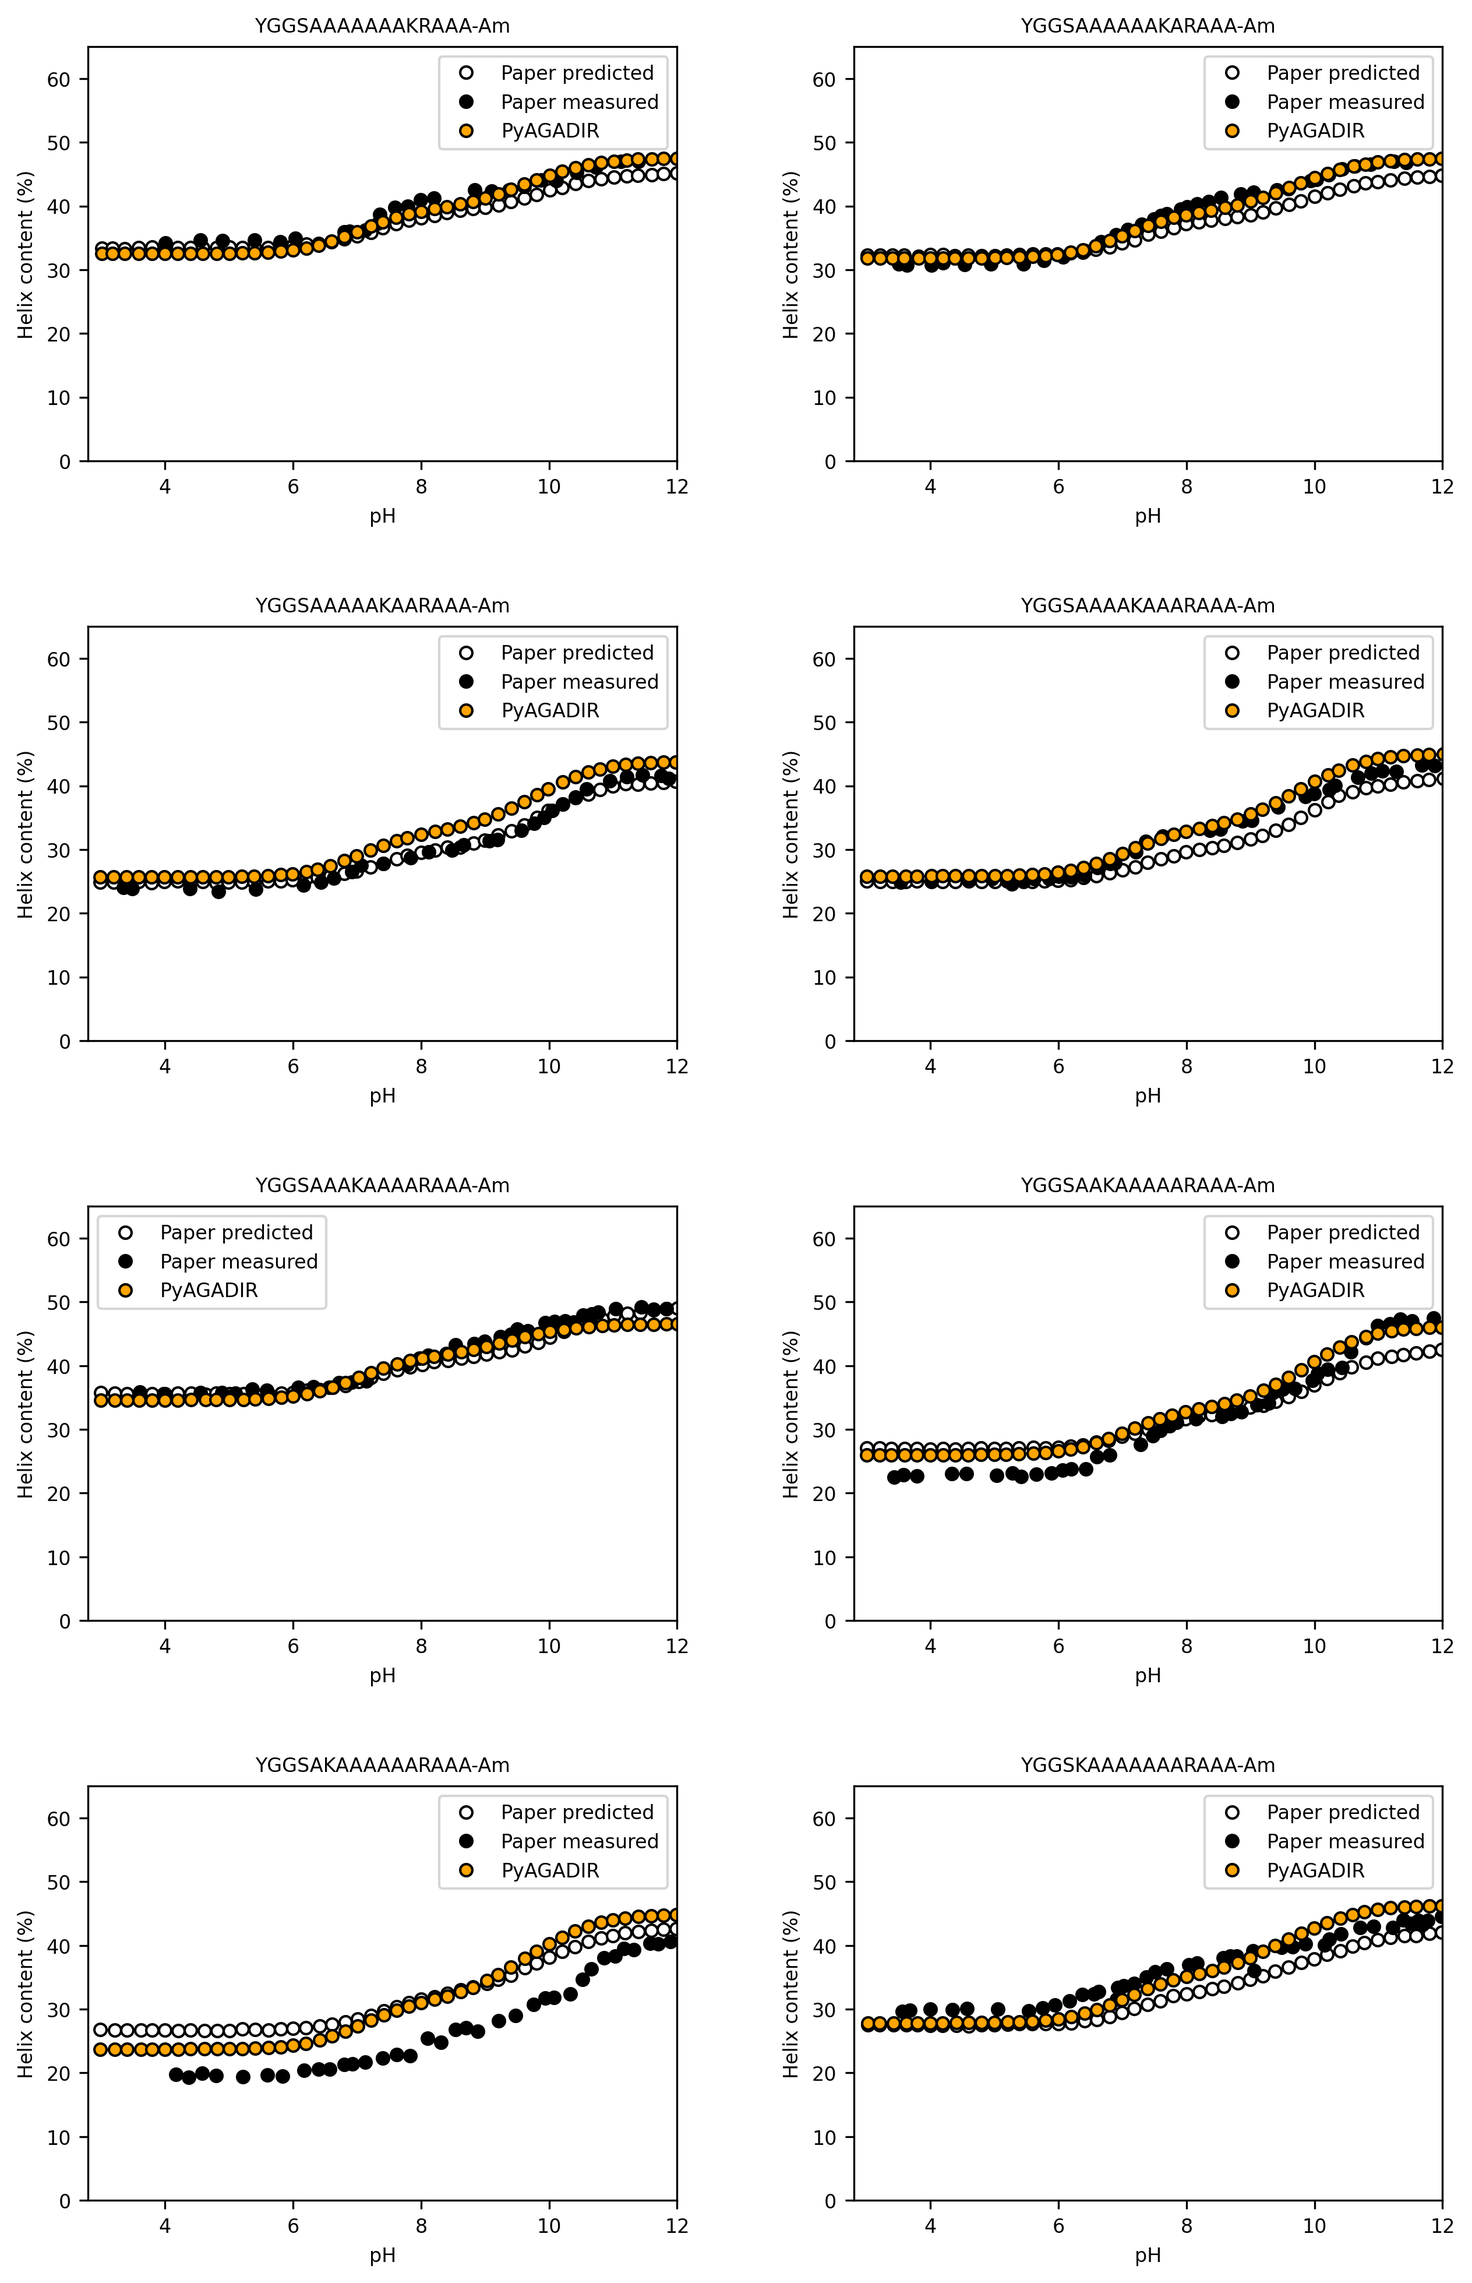
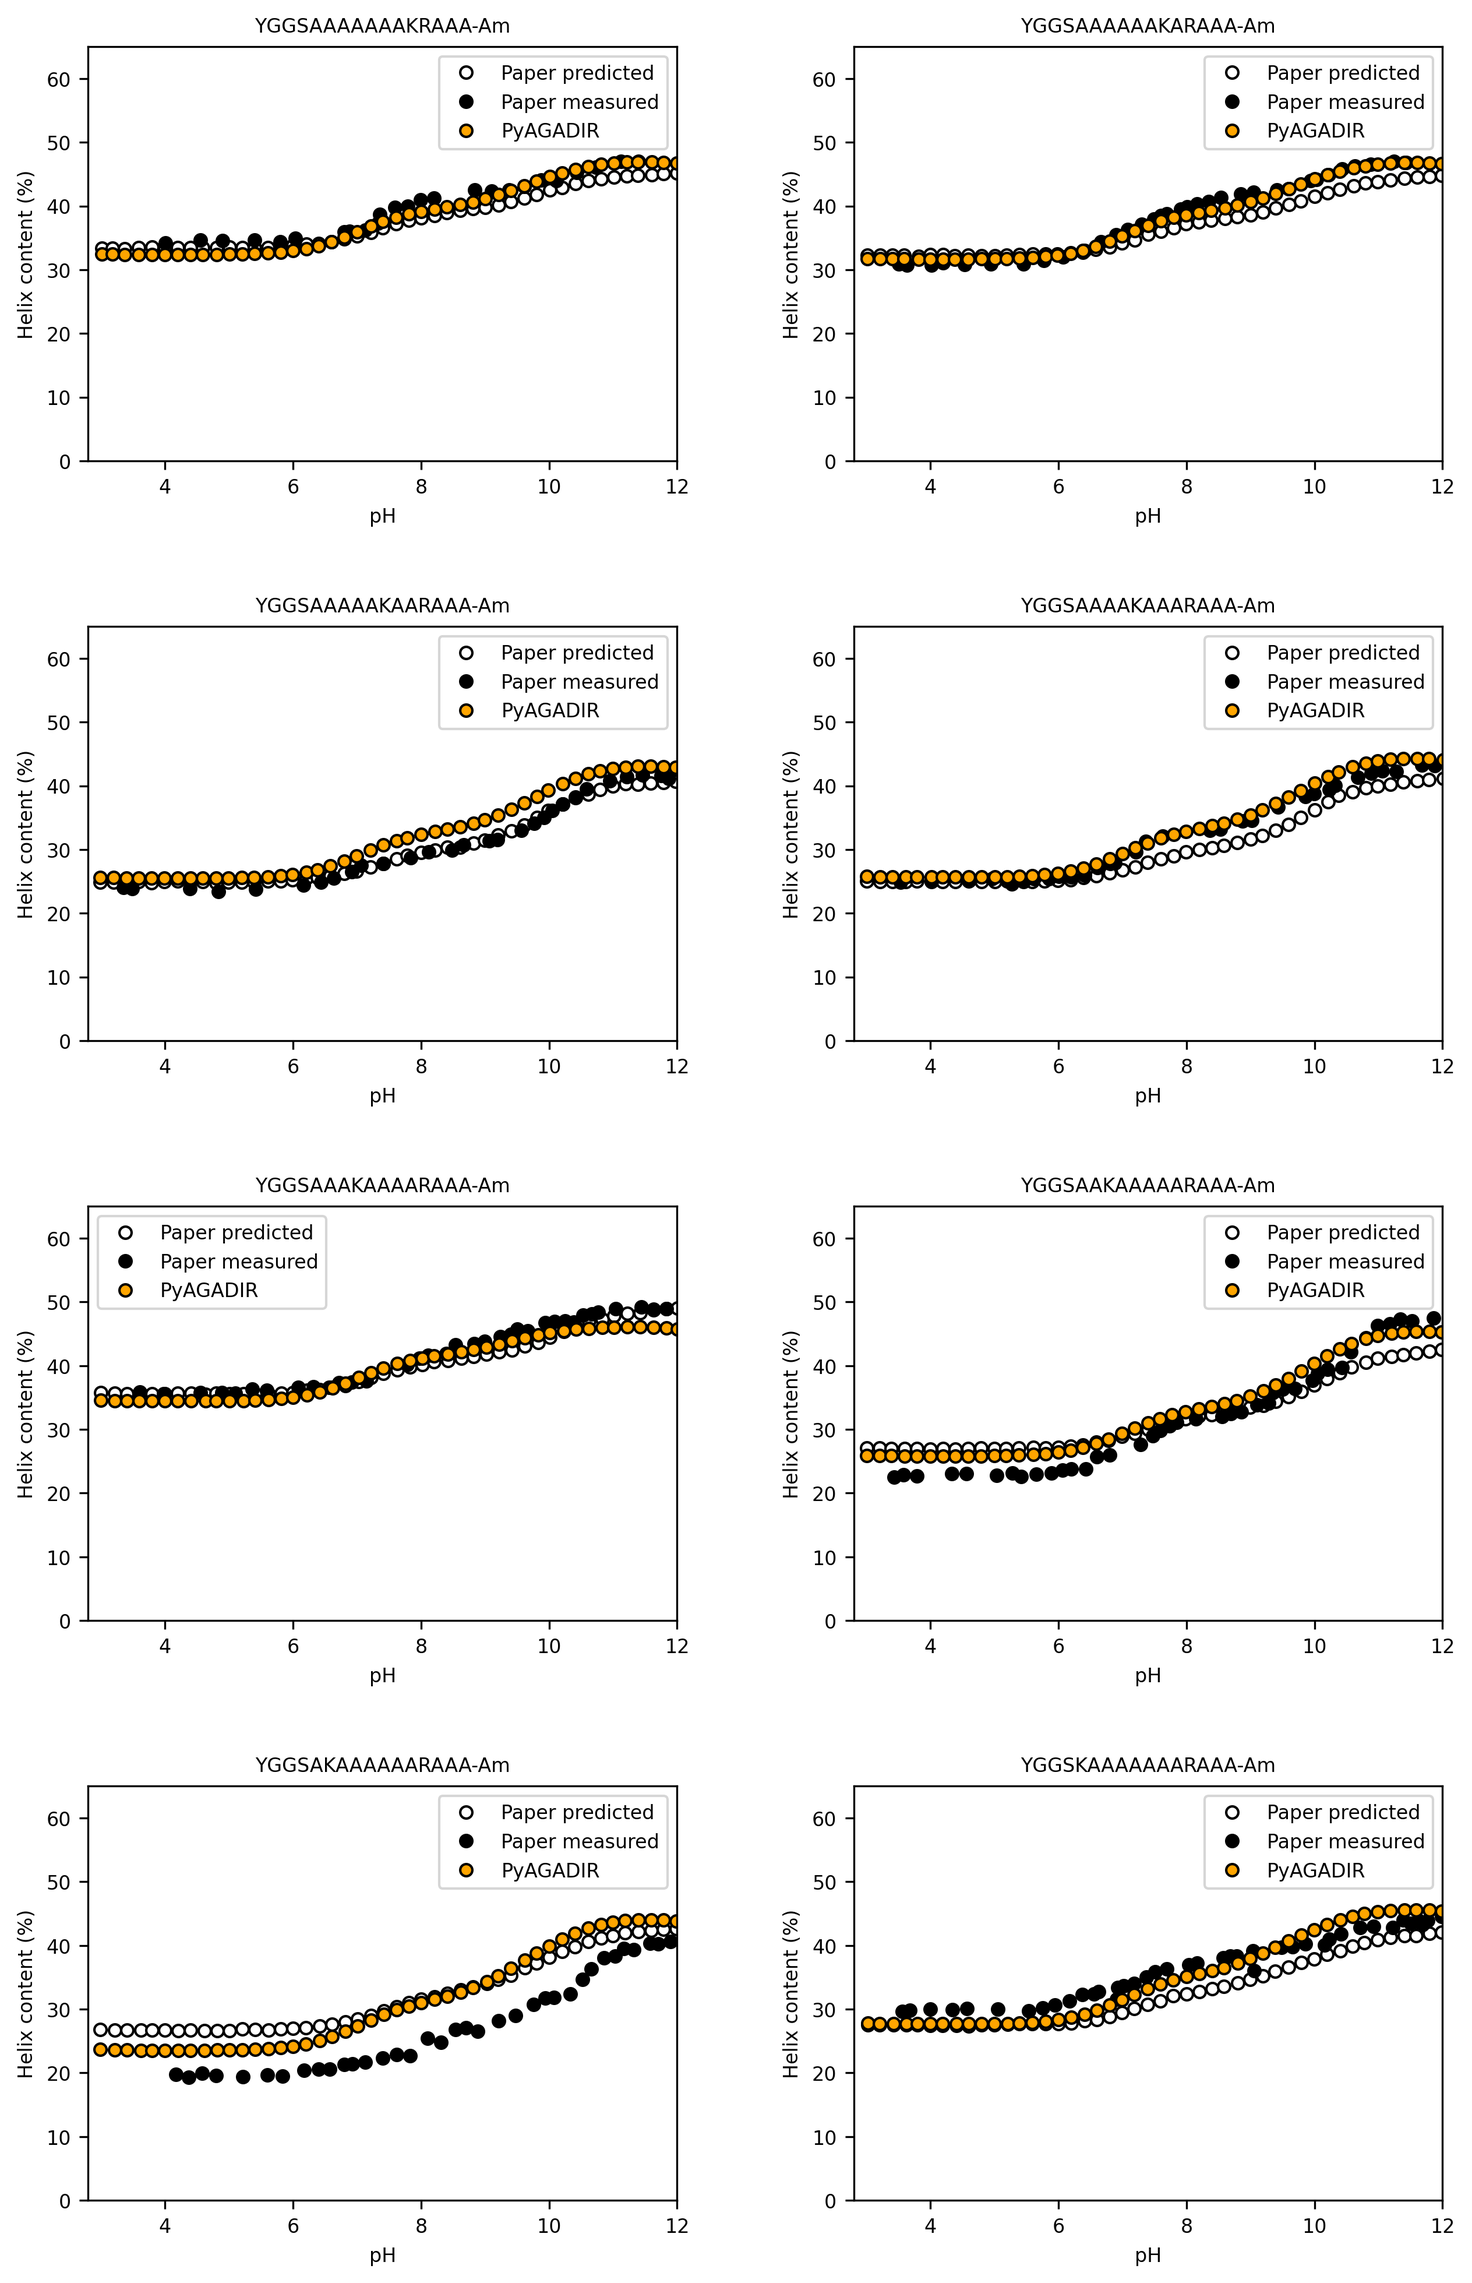
Ionic strength includes the HCl or NaOH that set the pH
Sources state their salt and buffer, rarely the strong acid or base used to
bring each sample to its pH, which raises the ionic strength (and shortens
the Debye length) at the pH extremes. New
validation.titrated_ionic_strength(ionic_M, pH, buffer=None):
- with a recorded buffer, the ionic strength is computed from its
  speciation at the target pH plus the HCl or NaOH the charge balance
  needs (Lacroix 1998: 2.5 mM sodium phosphate made up at pH 7.0, now
  3.5 mM at pH 5 to 19.8 mM at pH 12, where 5 mM was used at every pH);
- otherwise the free acid or base and its counter-ion are added,
  10^-pH + 10^(pH-14) M.
Scoring and the validation figures use it at every point; the Lacroix
data files record their buffer. The peptide corpus keeps the stated salt
and buffer; its README documents the rule, and the manifest flags the
three datasets whose coded value already includes the HCl (Viguera 1995,
Richardson 1999 and 2004).

Mean panel RMSE 2.969 -> 2.951 (Lacroix 2.509 -> 2.460,
Huyghues-Despointes 2.657 -> 2.644); residual structure 2.440 -> 2.396.
Literature corpus: every set within 0.08 RMSE (Cochran 2001 N1
titrations -0.08). Validation figures regenerated.

diff --git a/pyagadir/validation.py b/pyagadir/validation.py
@@ -85,6 +85,46 @@ def load_panel_conditions(filename):
     return {k: {**base, **v} for k, v in per_panel.items()}
 
 
+PHOSPHATE_PKA = (2.15, 7.20, 12.35)
+
+
+def titrated_ionic_strength(ionic_M, pH, buffer=None):
+    """Ionic strength (M) of a sample whose pH was set with HCl or NaOH.
+
+    Sources state their buffer and salt but rarely the strong acid or base that brought the sample
+    to its measured pH, and that titrant raises the ionic strength at the pH extremes (shortening
+    the Debye length there). Without a buffer composition, the free acid or base and its
+    counter-ion are added to the recorded value, ionic_M + 10^-pH + 10^(pH - 14), a lower bound on
+    the titrant. With one, ``{"sodium_phosphate_M": c, "prepared_pH": p}``, the ionic strength is
+    computed from the phosphate's speciation at the target pH (pKa 2.15 / 7.20 / 12.35) plus the
+    HCl or NaOH that the charge balance needs to move it from its prepared pH, and ionic_M is not
+    used. The pH is taken as set at room temperature (pKw 14.0).
+    """
+    h, oh = 10.0 ** -pH, 10.0 ** (pH - 14.0)
+    if not buffer:
+        return ionic_M + h + oh
+    c = float(buffer["sodium_phosphate_M"])
+
+    def fractions(x):
+        terms = [1.0]
+        for pka in PHOSPHATE_PKA:
+            terms.append(terms[-1] * 10.0 ** (x - pka))
+        total = sum(terms)
+        return [t / total for t in terms]
+
+    f_prep, f = fractions(float(buffer["prepared_pH"])), fractions(pH)
+    na_buffer = c * sum(i * x for i, x in enumerate(f_prep))
+    base = c * sum(i * x for i, x in enumerate(f)) + oh - h - na_buffer  # > 0: NaOH added; < 0: HCl added
+    na, cl = na_buffer + max(base, 0.0), max(-base, 0.0)
+    return 0.5 * (na + cl + h + oh + c * sum(i * i * x for i, x in enumerate(f)))
+
+
+def load_buffer(filename):
+    """The buffer composition recorded in a dataset's ``_provenance`` block (key ``buffer``), or None."""
+    with open(get_package_data_dir() / "validation" / filename) as fh:
+        return json.load(fh).get("_provenance", {}).get("buffer")
+
+
 def point_conditions(panel_cond, peptide, T, M, pH):
     """Return ``(T, M, pH)`` for one point of a panel.
 
@@ -241,6 +281,7 @@ def reproduce_lacroix_figure_3b(method="1s"):
 
     # Load validation data together with its recorded conditions
     data, temp_C, ionic_M = load_validation('lacroix_figure_3_data.json')
+    buffer = load_buffer('lacroix_figure_3_data.json')
 
     peptide = data["figure3b"]["peptide"]
     ncap = data["figure3b"]["ncap"]
@@ -254,7 +295,7 @@ def reproduce_lacroix_figure_3b(method="1s"):
     # AGADIR results
     pyagadir_predicted_data_helix = []
     for ph in paper_predicted_data_ph:
-        model = AGADIR(method=method, T=temp_C, M=ionic_M, pH=ph)
+        model = AGADIR(method=method, T=temp_C, M=titrated_ionic_strength(ionic_M, ph, buffer), pH=ph)
         result = model.predict(peptide, ncap=ncap, ccap=ccap)
         pyagadir_predicted_data_helix.append(result.get_percent_helix())
         
@@ -275,6 +316,7 @@ def reproduce_lacroix_figure_4(method="1s"):
     # Get paths
     figures_dir = ensure_figures_dir()
     data, temp_C, ionic_M = load_validation('lacroix_figure_4_data.json')
+    buffer = load_buffer('lacroix_figure_4_data.json')
 
     # Create figure
     fig, axs = plt.subplots(4, 2, figsize=(10, 16))
@@ -296,7 +338,7 @@ def reproduce_lacroix_figure_4(method="1s"):
 
         pyagadir_predicted_data_helix = []
         for ph in paper_predicted_data_ph:
-            model = AGADIR(method=method, T=temp_C, M=ionic_M, pH=ph)
+            model = AGADIR(method=method, T=temp_C, M=titrated_ionic_strength(ionic_M, ph, buffer), pH=ph)
             result = model.predict(peptide, ncap=ncap, ccap=ccap)
             pyagadir_predicted_data_helix.append(result.get_percent_helix())
             
@@ -339,7 +381,7 @@ def reproduce_huygues_despointes_figure_1(method="1s"):
 
         pyagadir_predicted_data_helix = []
         for pept in peptides:
-            model = AGADIR(method=method, T=temp_C, M=ionic_M, pH=ph)
+            model = AGADIR(method=method, T=temp_C, M=titrated_ionic_strength(ionic_M, ph), pH=ph)
             result = model.predict(pept, ncap=ncap, ccap=ccap)
             pyagadir_predicted_data_helix.append(result.get_percent_helix())
             
@@ -396,7 +438,7 @@ def reproduce_munoz_1997_figure_4(method="1s"):
         for pept, x, y in zip(peptides, xvals, paper_measured_data):
             T_pt, M_pt, pH_pt = point_conditions(cond, pept, T, M, pH)
             try:
-                model = AGADIR(method=method, T=T_pt, M=M_pt, pH=pH_pt)
+                model = AGADIR(method=method, T=T_pt, M=titrated_ionic_strength(M_pt, pH_pt), pH=pH_pt)
                 result = model.predict(pept, ncap=ncap, ccap=ccap)
             except ValueError:
                 # Shorter than the model's six-residue minimum.  Figure 4A's shortest
@@ -459,7 +501,7 @@ def reproduce_munoz_1995_figure_3(method="1s"):
         pH = cond.get("pH", fig_data.get("pH", 7.0))
         pyagadir_predicted_data_helix = []
         for temp in xvals:
-            model = AGADIR(method=method, T=temp, M=M, pH=pH)
+            model = AGADIR(method=method, T=temp, M=titrated_ionic_strength(M, pH), pH=pH)
             result = model.predict(peptide, ncap=ncap, ccap=ccap)
             pyagadir_predicted_data_helix.append(result.get_percent_helix())
             

diff --git a/pyagadir/scoring.py b/pyagadir/scoring.py
@@ -1,6 +1,7 @@
 import numpy as np
 from pyagadir.models import AGADIR
-from pyagadir.validation import load_panel_conditions, load_validation, point_conditions
+from pyagadir.validation import (load_buffer, load_panel_conditions, load_validation, point_conditions,
+                                 titrated_ionic_strength)
 
 METRICS = ("mse", "rmse", "mae", "pearsonr")
 
@@ -29,8 +30,9 @@ def _panel_conditions(filename, panel, temp_C, ionic_M, pH=7.0):
             cond.get("pH", pH))
 
 
-def _predict(peptide, ncap, ccap, method, T, M, pH):
-    model = AGADIR(method=method, T=T, M=M, pH=pH)
+def _predict(peptide, ncap, ccap, method, T, M, pH, buffer=None):
+    """Predict at the sample's ionic strength, including the HCl or NaOH that set its pH."""
+    model = AGADIR(method=method, T=T, M=titrated_ionic_strength(M, pH, buffer), pH=pH)
     return model.predict(peptide, ncap=ncap, ccap=ccap).get_percent_helix()
 
 
@@ -43,7 +45,8 @@ def score_lacroix_figure_3b(method="1s", metric="mse"):
     data, temp_C, ionic_M = load_validation(filename)
     fig_data = data["figure3b"]
     T, M, _ = _panel_conditions(filename, "figure3b", temp_C, ionic_M)
-    predicted = [_predict(fig_data["peptide"], fig_data["ncap"], fig_data["ccap"], method, T, M, ph)
+    buffer = load_buffer(filename)
+    predicted = [_predict(fig_data["peptide"], fig_data["ncap"], fig_data["ccap"], method, T, M, ph, buffer)
                  for ph in fig_data["measured_data_ph"]]
     return {"lacroix_figure_3b": _score(fig_data["measured_data_helix"], predicted, metric)}
 
@@ -52,10 +55,11 @@ def score_lacroix_figure_4(method="1s", metric="mse"):
     """Score per subplot vs measured helix content vs pH (Lacroix 1998, Fig 4)."""
     filename = 'lacroix_figure_4_data.json'
     data, temp_C, ionic_M = load_validation(filename)
+    buffer = load_buffer(filename)
     scores = {}
     for figname, fig_data in data.items():
         T, M, _ = _panel_conditions(filename, figname, temp_C, ionic_M)
-        predicted = [_predict(fig_data["peptide"], fig_data["ncap"], fig_data["ccap"], method, T, M, ph)
+        predicted = [_predict(fig_data["peptide"], fig_data["ncap"], fig_data["ccap"], method, T, M, ph, buffer)
                      for ph in fig_data["measured_data_ph"]]
         scores[f"lacroix_figure_4_{figname}"] = _score(fig_data["measured_data_helix"], predicted, metric)
     return scores

diff --git a/tests/test_scoring.py b/tests/test_scoring.py
@@ -6,6 +6,7 @@ tests check the bookkeeping (which conditions reach the model) and not helicity 
 import pytest
 
 import pyagadir.scoring as scoring
+from pyagadir.validation import titrated_ionic_strength
 
 
 class _RecordingModel:
@@ -36,14 +37,18 @@ def test_score_all_runs_and_returns_every_panel(calls):
 
 
 def test_lacroix_uses_recorded_conditions(calls):
-    # Lacroix et al. 1998: 278 K, 2.5 mM sodium phosphate (I ~ 5 mM), not 0 C / 0.1 M
+    # Lacroix et al. 1998: 278 K, 2.5 mM sodium phosphate made up at pH 7.0 and titrated with HCl/NaOH, not 0 C / 0.1 M
     scoring.score_lacroix_figure_4(metric="rmse")
-    assert {(T, M) for _, (T, M, _) in calls} == {(5.0, 0.005)}
+    buffer = {"sodium_phosphate_M": 0.0025, "prepared_pH": 7.0}
+    assert {T for _, (T, _, _) in calls} == {5.0}
+    assert all(M == pytest.approx(titrated_ionic_strength(0.005, pH, buffer), rel=1e-12) for _, (_, M, pH) in calls)
+    assert max(M for _, (_, M, _) in calls) > 0.015  # pH 12: the NaOH roughly quadruples the buffer's 4.4 mM
 
 
 def test_munoz_1997_panels_and_mixed_point_use_their_own_conditions(calls):
     scoring.score_munoz_1997_figure_4(metric="rmse")
     cond = {seq: c for seq, c in calls}
-    assert cond["AAKAAAAKAAAAKAAY"] == (5.0, 1.0, 2.5)          # 4B, Rohl et al. 1992
-    assert cond["AAQAAAAQAA"] == (5.0, 0.0044, 7.0)              # 4A, Munoz & Serrano 1995-II
-    assert cond["AAQAAAAQAAAAQAAY"] == (0.0, 0.102, 7.0)         # 4A's point from Scholtz 1991
+    # recorded salt and buffer + the HCl/NaOH that set the pH (validation.titrated_ionic_strength)
+    assert cond["AAKAAAAKAAAAKAAY"] == (5.0, titrated_ionic_strength(1.0, 2.5), 2.5)      # 4B, Rohl et al. 1992
+    assert cond["AAQAAAAQAA"] == (5.0, titrated_ionic_strength(0.0044, 7.0), 7.0)        # 4A, Munoz & Serrano 1995-II
+    assert cond["AAQAAAAQAAAAQAAY"] == (0.0, titrated_ionic_strength(0.102, 7.0), 7.0)   # 4A's point from Scholtz 1991

diff --git a/tests/test_titrated_ionic_strength.py b/tests/test_titrated_ionic_strength.py
@@ -1,0 +1,25 @@
+"""validation.titrated_ionic_strength: the ionic strength of a sample whose pH was set with HCl or NaOH."""
+import pytest
+
+from pyagadir.validation import load_buffer, titrated_ionic_strength
+
+LACROIX = {"sodium_phosphate_M": 0.0025, "prepared_pH": 7.0}
+
+
+def test_no_buffer_adds_the_free_acid_or_base():
+    assert titrated_ionic_strength(0.01, 2.0) == pytest.approx(0.01 + 0.01, rel=1e-6)
+    assert titrated_ionic_strength(0.01, 12.0) == pytest.approx(0.01 + 0.01, rel=1e-6)
+    assert titrated_ionic_strength(0.01, 7.0) == pytest.approx(0.01, abs=1e-6)
+
+
+@pytest.mark.parametrize("pH,expected", [(3.0, 0.00447), (5.0, 0.00349), (7.0, 0.00443), (9.0, 0.00744),
+                                         (11.0, 0.00882), (12.0, 0.01982)])
+def test_lacroix_phosphate_buffer(pH, expected):
+    """2.5 mM sodium phosphate made up at pH 7.0, then titrated with HCl or NaOH (Lacroix et al. 1998)."""
+    assert titrated_ionic_strength(0.005, pH, LACROIX) == pytest.approx(expected, abs=2e-5)
+
+
+def test_lacroix_files_record_their_buffer():
+    for f in ("lacroix_figure_3_data.json", "lacroix_figure_4_data.json"):
+        b = load_buffer(f)
+        assert b["sodium_phosphate_M"] == 0.0025 and b["prepared_pH"] == 7.0

diff --git a/data/peptides/README.md b/data/peptides/README.md
@@ -23,7 +23,7 @@ One tidy row per (peptide, quantity). Columns:
 | `sequence` | bare sequence, caps stripped into their own columns |
 | `ncap` / `ccap` | `Ac`, `Sc`, `Am`, or empty for free — **read from the paper's notation, never inferred** |
 | `n_res` | length of `sequence` |
-| `pH`, `T_C`, `ionic_strength_M` | per row, so each row stands alone |
+| `pH`, `T_C`, `ionic_strength_M` | per row, so each row stands alone. `ionic_strength_M` is the stated salt and buffer; it leaves out the HCl or NaOH that set the pH unless the manifest entry has `ionic_strength_includes_titrant` (see below) |
 | `quantity` | what `value` is: `minus_theta222`, `helix_percent`, … |
 | `value`, `error`, `unit` | as printed, with the paper's own error where given |
 | `source_table` | which table in the paper |
@@ -55,3 +55,14 @@ are stored as ordinary rows alongside.
 
 The C-peptide papers state a fourth helicity convention (0 % = +3,000, 100 % = -27,000
 deg cm2 dmol-1 at 3 °C); as with the others it is recorded in the manifest, not applied.
+
+## Ionic strength and the titrant
+
+Papers state their salt and buffer, rarely the HCl or NaOH that brought each sample to its pH. That titrant raises the
+ionic strength at the pH extremes: at pH 2 the free HCl alone adds 10 mM. `ionic_strength_M` records the stated salt
+and buffer. A consumer adds the free acid or base with its counter-ion, 10^-pH + 10^(pH-14) M, with
+`pyagadir.validation.titrated_ionic_strength(ionic_strength_M, pH)`. The three datasets whose coded value already
+includes the titrant (Viguera et al. 1995; Richardson et al. 1999 and 2004) carry `ionic_strength_includes_titrant`
+in `manifest.json`. The term is a lower bound: re-speciation of the buffer itself is not included, except for the
+Lacroix 1998 panels in `data/validation/`, whose buffer is computed in full.
+
